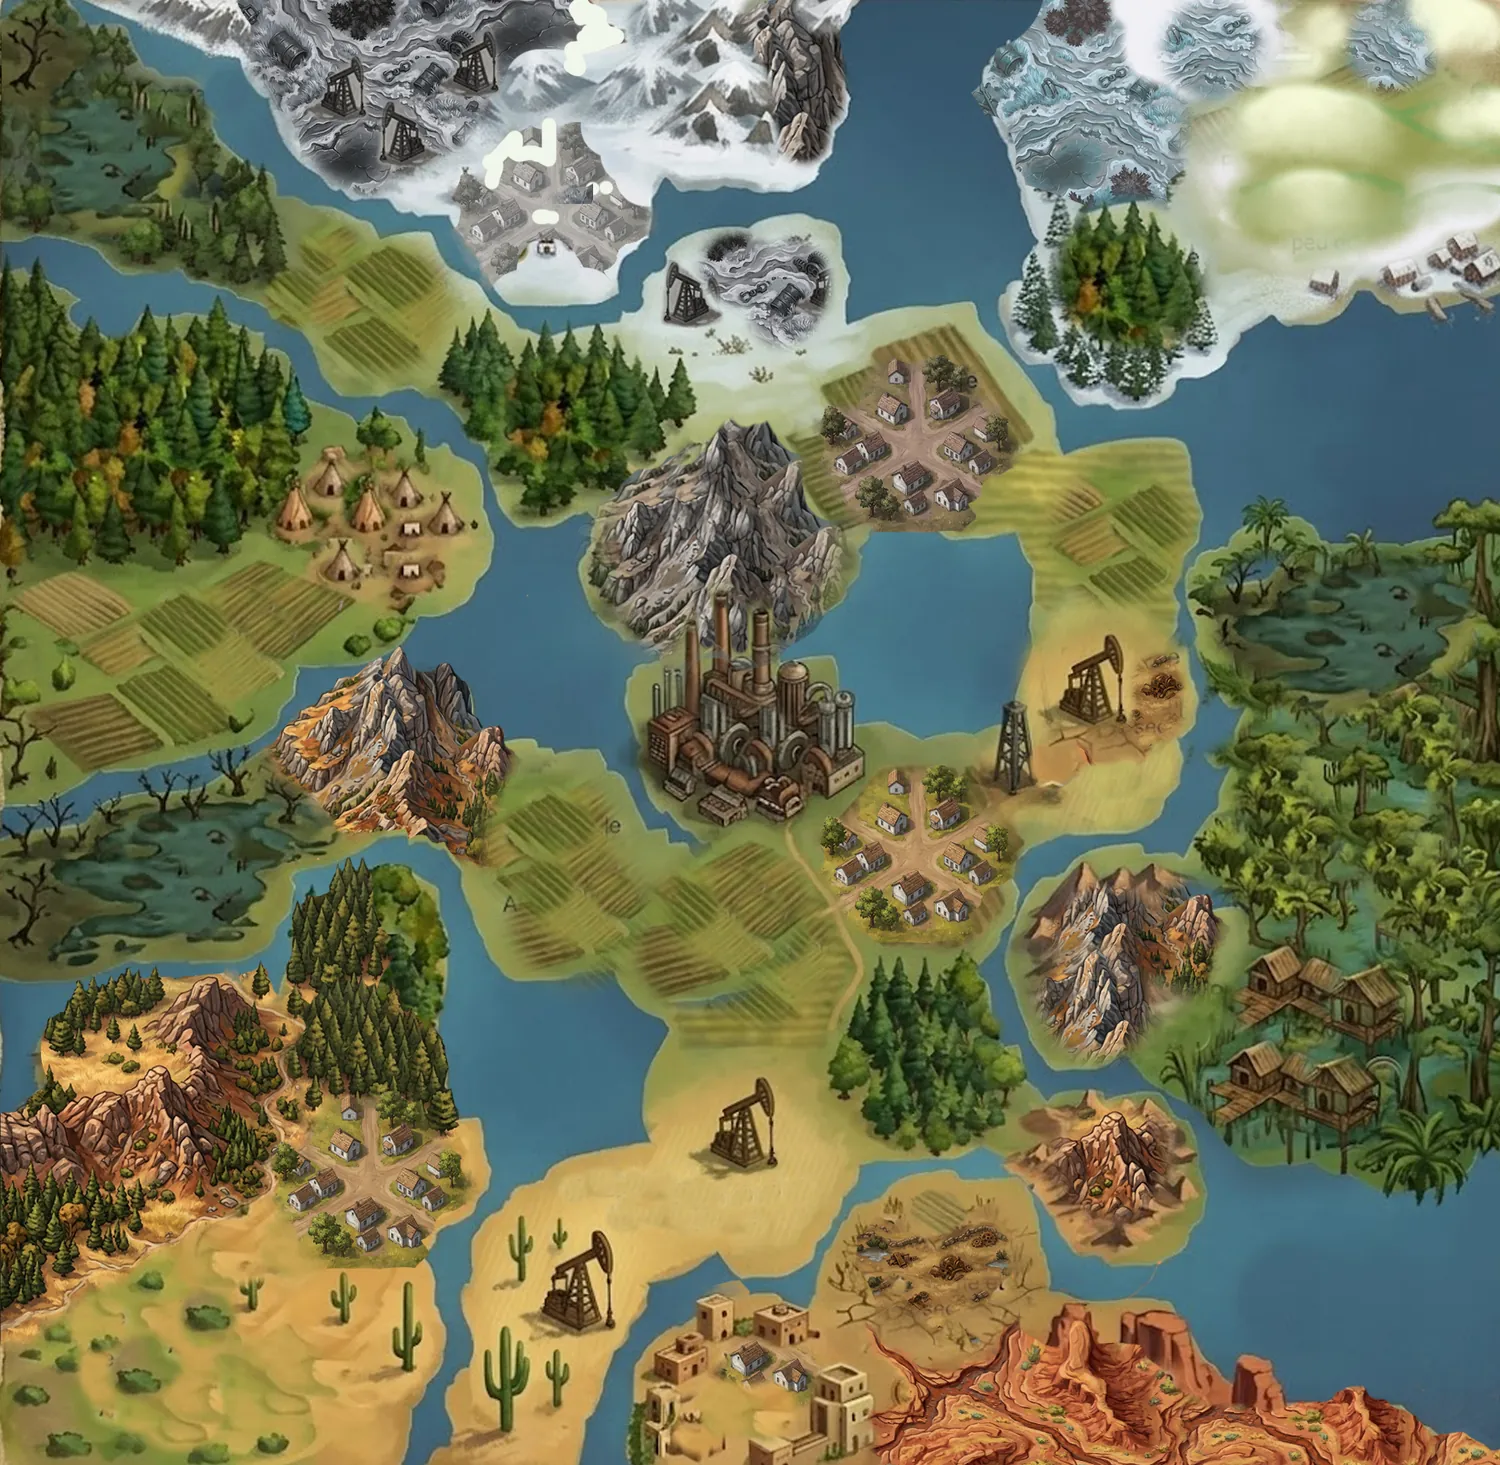
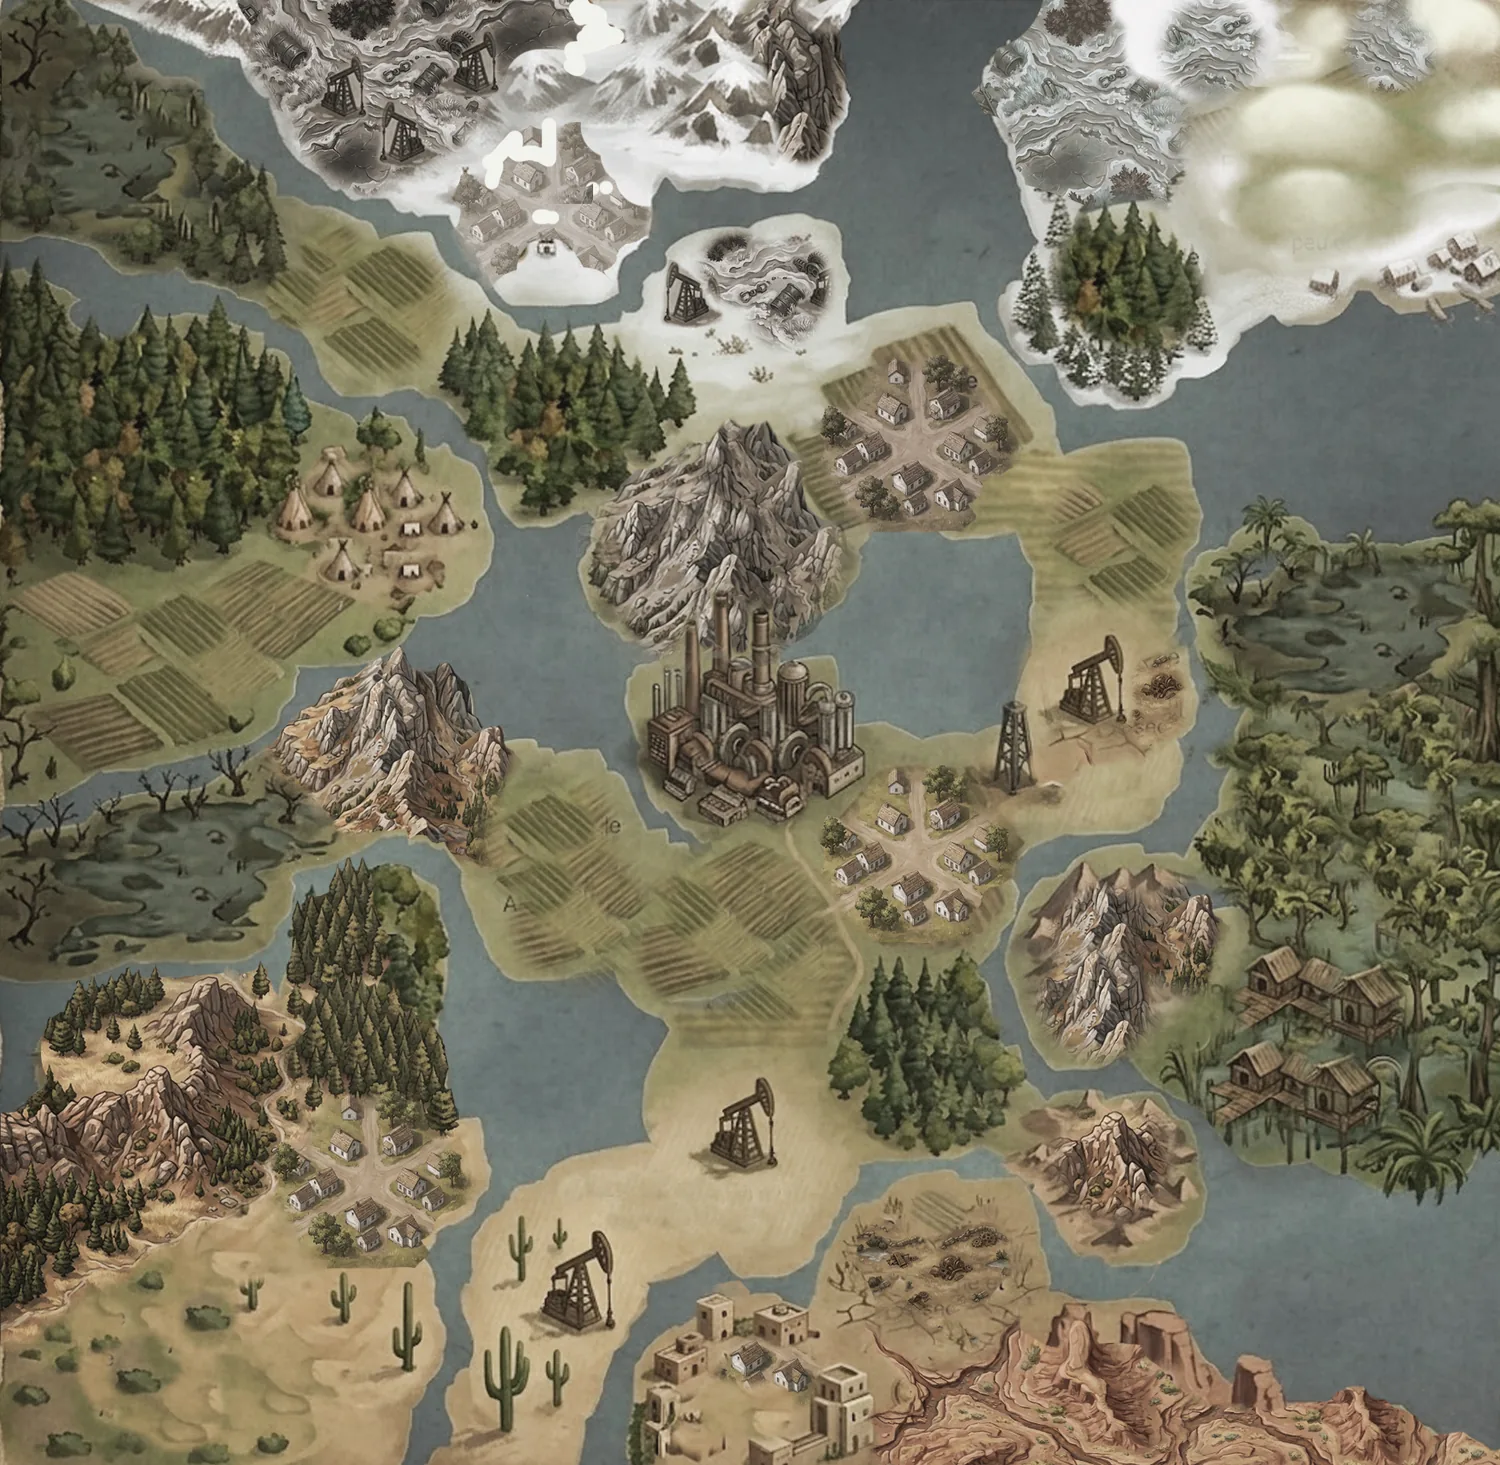
Refonte HUD map v2 : fond de plateau, pistes pop/puissance, tiroir de score, barre du haut
- Fond de plateau : « map advance » remplacé par « map v2 » (version sépia/parchemin)
- Piste popularité : position marquée par un cœur couleur faction avec le chiffre
  dessus, chiffres grisés sur les cases vides, lignes dorées aux paliers 6/7 et
  12/13, étoile fantôme (pointillés) sur l'échelon 18
- Barème de score : plus affiché en permanence — replié dans une bande à flèche
  qui ouvre un tiroir latéral détaillé (paliers affichés en plus grand)
- Piste puissance : l'éclair couleur faction marque la position, chiffres grisés,
  case 7 mise en avant (maximum engageable en combat), étoile fantôme sur 16
- Barre du haut : logo de faction agrandi (54px), icônes de ressources agrandies
  sans bloc, réorganisées Métal/Bois/Céréales/Pétrole ‖ Argent/Cartes munitions ;
  compteurs ouvriers et mechas retirés (lisibles sur la rangée d'objectifs)
- Bouton du son déplacé au-dessus de la piste de puissance pour ne plus la masquer

Claude-Session: https://claude.ai/code/session_01J9KHxZWt4YwQccm3tKDSbM

diff --git a/src/components/App.jsx b/src/components/App.jsx
@@ -35,6 +35,38 @@ import { FACTION_LOGOS, FACTION_ART } from '../assets/factions/index.js';
 import { TERRAIN_TEXTURES, TERRAIN_TILE } from '../assets/terrains/index.js';
 import { BOARD_IMAGE } from '../assets/map/index.js';
 
+// ═══ Marqueurs de piste (popularité / puissance) ═══
+// Cœur aux couleurs de la faction, portant la valeur courante de popularité.
+const HeartMarker=({color,value,size=26})=>(
+  <div style={{position:"relative",display:"flex",alignItems:"center",justifyContent:"center",filter:"drop-shadow(0 1px 3px rgba(0,0,0,0.75))",zIndex:2}}>
+    <svg width={size} height={size} viewBox="0 0 16 16">
+      <path d="M8 14 C8 14 2 10 2 6.5 C2 4 4 2 6 2 C7 2 7.6 2.5 8 3 C8.4 2.5 9 2 10 2 C12 2 14 4 14 6.5 C14 10 8 14 8 14Z" fill={color} stroke="rgba(255,255,255,0.85)" strokeWidth="0.9" strokeLinejoin="round"/>
+    </svg>
+    <span style={{position:"absolute",top:"44%",left:"50%",transform:"translate(-50%,-50%)",fontSize:Math.round(size*0.42),fontWeight:900,color:"#fff",fontFamily:"var(--font-mono)",textShadow:"0 1px 2px rgba(0,0,0,0.85)",lineHeight:1}}>{value}</span>
+  </div>
+);
+
+// Éclair aux couleurs de la faction, portant la valeur courante de puissance.
+const BoltMarker=({color,value,height=24})=>(
+  <div style={{display:"flex",alignItems:"center",gap:2,padding:"0 7px 0 4px",height,borderRadius:height/2,
+    background:color,border:"1px solid rgba(255,255,255,0.8)",boxShadow:"0 1px 4px rgba(0,0,0,0.7)"}}>
+    <svg width={Math.round(height*0.62)} height={Math.round(height*0.62)} viewBox="0 0 16 16">
+      <polygon points="9,1 4,9 7.5,9 7,15 12,7 8.5,7" fill="#fff" stroke="rgba(0,0,0,0.35)" strokeWidth="0.5"/>
+    </svg>
+    <span style={{fontSize:Math.round(height*0.52),fontWeight:900,color:"#fff",fontFamily:"var(--font-mono)",textShadow:"0 1px 2px rgba(0,0,0,0.7)",lineHeight:1}}>{value}</span>
+  </div>
+);
+
+// Étoile de fin de piste (pop 18 / puissance 16) : fantôme en pointillés tant
+// que l'étoile n'est pas obtenue, pleine et dorée une fois atteinte.
+const TrackStar=({size=13,earned=false})=>(
+  <svg width={size} height={size} viewBox="0 0 24 24" style={{flexShrink:0,display:"block"}}>
+    <path d="M12 2.5l2.83 5.9 6.47.84-4.75 4.48 1.21 6.4L12 17.02l-5.76 3.1 1.21-6.4-4.75-4.48 6.47-.84z"
+      fill={earned?"var(--gold)":"none"} stroke="var(--gold)" strokeWidth="1.8"
+      strokeDasharray={earned?undefined:"3 2.4"} opacity={earned?0.95:0.5} strokeLinejoin="round"/>
+  </svg>
+);
+
 export default function App(){
   const[phase,setPhase]=useState("setup");
   const[selFaction,setSelFaction]=useState(null);
@@ -73,6 +105,7 @@ export default function App(){
   const[hovHex,setHovHex]=useState(null);
   const[clickRipple,setClickRipple]=useState(null); // {hexId, key} for ripple animation
   const[showOpponents,setShowOpponents]=useState(false); // barre du haut dépliée : ressources + étoiles adverses
+  const[showScoring,setShowScoring]=useState(false); // tiroir latéral : barème de score de fin de partie
   const[floaters,setFloaters]=useState([]); // animations de gain : {id,icon,color,x,y,label}
   const[log,setLog]=useState([]);
   const[botRunning,setBotRunning]=useState(false);
@@ -2007,18 +2040,18 @@ export default function App(){
   const isMyTurn=currentP===0&&!botRunning;
   const selHexData=selHex!==null?hMap[selHex]:null;
 
-  // Ressources d'un joueur → pills (partagé barre du haut / panneau adversaires)
+  // Ressources d'un joueur → compteurs (partagé barre du haut / panneau adversaires).
+  // Ordre demandé : Métal / Bois / Céréales / Pétrole // Argent / Cartes munitions.
+  // (Ouvriers et mechas retirés : leurs valeurs sont lisibles sur la rangée d'objectifs.)
   const playerStats=(p)=>{
     const tot=(t)=>{let s=0;Object.values(p.resources).forEach(r=>{if(r[t])s+=r[t];});return s;};
     return[
-      {svgKey:"coins",val:p.coins,color:"var(--gold)",label:"$"},
-      {svgKey:"combatCards",val:p.combatCards,color:"#bbaacc",label:"CC"},
-      {svgKey:"metal",val:tot("metal"),color:"#99aabb",label:"Mét"},
+      {svgKey:"metal",val:tot("metal"),color:"#99aabb",label:"Métal"},
       {svgKey:"bois",val:tot("bois"),color:"#7aaa55",label:"Bois"},
-      {svgKey:"nourriture",val:tot("nourriture"),color:"#d4b050",label:"Nour"},
-      {svgKey:"petrole",val:tot("petrole"),color:"#8a90a0",label:"Pét"},
-      {svgKey:"worker",val:p.workers.length,color:"#c89966",label:"Ouv"},
-      {svgKey:"mech",val:p.mechs.length,color:"#99aabb",label:"Mech"},
+      {svgKey:"nourriture",val:tot("nourriture"),color:"#d4b050",label:"Céréales"},
+      {svgKey:"petrole",val:tot("petrole"),color:"#8a90a0",label:"Pétrole"},
+      {svgKey:"coins",val:p.coins,color:"var(--gold)",label:"Argent",sep:true},
+      {svgKey:"combatCards",val:p.combatCards,color:"#bbaacc",label:"Cartes munitions"},
     ];
   };
   // Vocabulaire couplé façon Scythe (en-tête de chaque cellule d'action)
@@ -2058,32 +2091,39 @@ export default function App(){
 
       {/* ═══ TOP RESOURCE BAR ═══ */}
       <div style={{gridColumn:"1/-1",display:"flex",alignItems:"center",padding:"6px 16px",gap:10,background:"linear-gradient(180deg,#282013,#1c150c)",borderBottom:"1px solid var(--panel-edge)",boxShadow:"inset 0 -1px 0 rgba(216,201,163,0.07)",flexShrink:0,height:"var(--top-h)",overflow:"hidden"}}>
-        {/* Faction badge */}
-        <div style={{display:"flex",alignItems:"center",gap:8,marginRight:4,flexShrink:0}}>
-          <div style={{width:36,height:36,borderRadius:"50%",background:myFaction.color+"22",border:`2px solid ${myFaction.color}`,display:"flex",alignItems:"center",justifyContent:"center",overflow:"hidden",flexShrink:0}}>
-            <img src={FACTION_LOGOS[me.faction]} alt="" style={{width:"82%",height:"82%",objectFit:"contain"}}/>
+        {/* Faction badge — logo agrandi */}
+        <div style={{display:"flex",alignItems:"center",gap:10,marginRight:4,flexShrink:0}}>
+          <div style={{width:54,height:54,borderRadius:"50%",background:myFaction.color+"22",border:`2px solid ${myFaction.color}`,display:"flex",alignItems:"center",justifyContent:"center",overflow:"hidden",flexShrink:0,boxShadow:`0 0 10px ${myFaction.color}33`}}>
+            <img src={FACTION_LOGOS[me.faction]} alt="" style={{width:"86%",height:"86%",objectFit:"contain"}}/>
           </div>
           <div style={{lineHeight:1.2}}>
-            <div style={{fontSize:16,fontWeight:700,color:myFaction.color,fontFamily:"var(--font-title)"}}>{myFaction.name}</div>
+            <div style={{fontSize:18,fontWeight:700,color:myFaction.color,fontFamily:"var(--font-title)"}}>{myFaction.name}</div>
             <div style={{fontSize:13,color:"var(--text-dim)",fontFamily:"var(--font-body)"}}>{myMat.name} · T{turn}</div>
           </div>
         </div>
         {botRunning&&<span style={{color:"var(--rust)",fontSize:14,animation:"pulse 1s infinite",marginRight:4,display:"flex",alignItems:"center",gap:3}}>{React.createElement(RESOURCE_ICONS.metal,{size:12,color:"var(--rust)"})} IA…</span>}
         {/* Divider */}
         <div style={{width:1,height:28,background:"var(--border-light)",flexShrink:0}}/>
-        {/* Resource counters — SVG icons */}
+        {/* Resource counters — grandes icônes SVG, sans bloc :
+            Métal / Bois / Céréales / Pétrole ‖ Argent / Cartes munitions */}
         {(()=>{
           const stats=playerStats(me);
-          return stats.map((s,i)=>{
+          return stats.map(s=>{
             const Icon=RESOURCE_ICONS[s.svgKey];
             const isCards=s.svgKey==="combatCards";
             return(
-            <div key={i} className="res-pill" title={isCards?"Cartes de combat — cliquer pour voir la main":s.label}
-              onClick={isCards?()=>setShowCards(v=>!v):undefined}
-              style={isCards?{cursor:"pointer",borderColor:showCards?"var(--gold-dim)":undefined}:undefined}>
-              <span className="res-icon" style={{display:"flex",alignItems:"center"}}>{Icon?<Icon size={19} color={s.color}/>:s.svgKey}</span>
-              <span className="res-val" style={{color:s.color}}>{s.val}</span>
-            </div>
+            <React.Fragment key={s.svgKey}>
+              {s.sep&&<div style={{width:1,height:34,background:"var(--border-light)",flexShrink:0,margin:"0 6px"}}/>}
+              <div title={isCards?"Cartes munitions — cliquer pour voir la main":s.label}
+                onClick={isCards?()=>setShowCards(v=>!v):undefined}
+                style={{display:"flex",alignItems:"center",gap:6,flexShrink:0,padding:"3px 5px",borderRadius:6,
+                  cursor:isCards?"pointer":"default",
+                  background:isCards&&showCards?"rgba(212,178,84,0.12)":"transparent",
+                  boxShadow:isCards&&showCards?"inset 0 0 0 1px var(--gold-dim)":"none"}}>
+                {Icon?<Icon size={28} color={s.color}/>:null}
+                <span style={{fontSize:24,fontWeight:700,fontFamily:"var(--font-mono)",color:s.color,lineHeight:1}}>{s.val}</span>
+              </div>
+            </React.Fragment>
           );});
         })()}
         {/* ── Rangée d'ÉTOILES À OBTENIR (icône grisée → étoile posée si atteint) ──
@@ -2165,65 +2205,96 @@ export default function App(){
         </div>
       )}
 
-      {/* ═══ LEFT: POPULARITY TRACK ═══ (la piste de puissance est désormais en
-            bas d'écran, cf. bande horizontale sous la grille principale) */}
-      <div style={{display:"flex",gap:4,background:"linear-gradient(180deg,#241d12,#171209 60%,#100c07)",borderRight:"1px solid var(--panel-edge)",boxShadow:"inset -1px 0 0 rgba(216,201,163,0.06)",padding:"4px 4px",overflow:"hidden"}}>
-        {/* Popularity track */}
-        <div style={{flex:1,display:"flex",flexDirection:"column",alignItems:"center"}}>
+      {/* ═══ LEFT: POPULARITY TRACK ═══ (la piste de puissance est en bas d'écran ;
+            le barème de score est replié dans un tiroir latéral — bande à flèche) */}
+      <div style={{display:"flex",gap:3,background:"linear-gradient(180deg,#241d12,#171209 60%,#100c07)",borderRight:"1px solid var(--panel-edge)",boxShadow:"inset -1px 0 0 rgba(216,201,163,0.06)",padding:"4px 3px 4px 4px",overflow:"hidden"}}>
+        {/* Popularity track — le cœur (couleur faction) marque la position, chiffre
+            dessus ; les cases vides gardent leur chiffre grisé ; les lignes dorées
+            marquent les paliers de score (6/7 et 12/13) ; étoile de fin à 18. */}
+        <div style={{flex:1,display:"flex",flexDirection:"column",alignItems:"center",minWidth:0}}>
           <div style={{fontSize:9,color:"var(--brass)",letterSpacing:1,textTransform:"uppercase",marginBottom:4,fontFamily:"var(--font-title)",fontWeight:700}}>Pop</div>
           <div style={{flex:1,display:"flex",flexDirection:"column-reverse",gap:1,width:"100%"}}>
             {Array.from({length:19},(_,i)=>i).map(v=>{
               const tier=v<=6?0:v<=12?1:2;
-              const tierColors=["var(--oxide)","var(--brass)","var(--gold)"];
+              const tierFills=["rgba(122,92,58,0.30)","rgba(196,160,96,0.26)","rgba(212,178,84,0.28)"];
+              const tierLines=["var(--oxide)","var(--brass)","var(--gold)"];
+              const isCur=v===me.pop;
               return(
-                <div key={v} style={{
-                  flex:1,minHeight:0,width:"100%",borderRadius:2,
-                  background:v<=me.pop?`linear-gradient(90deg,${tierColors[tier]}cc,${tierColors[tier]})`:"rgba(255,255,255,0.03)",
-                  border:v<=me.pop?`1px solid ${tierColors[tier]}`:"1px solid rgba(255,255,255,0.04)",
+                <div key={v} title={v===18?"18 — étoile Popularité max":`Popularité ${v}`} style={{
+                  flex:1,minHeight:0,width:"100%",borderRadius:2,position:"relative",
+                  background:v<=me.pop?tierFills[tier]:"rgba(255,255,255,0.02)",
+                  border:"1px solid rgba(255,255,255,0.04)",
+                  // palier de score : ligne marquée entre 6/7 et 12/13
+                  borderBottom:v===7||v===13?`2px solid ${tierLines[tier]}`:"1px solid rgba(255,255,255,0.04)",
                   display:"flex",alignItems:"center",justifyContent:"center",
-                  fontSize:9,fontWeight:v===me.pop?900:400,
-                  color:v<=me.pop?"#fff":"#2a2010",
-                  boxShadow:v===me.pop?"0 0 6px rgba(200,160,60,0.5)":"none",
-                  borderLeft:v===7||v===13?`2px solid ${tierColors[tier]}88`:"none",
-                }}>{v%2===0?v:""}</div>
+                }}>
+                  {v===18&&<span style={{position:"absolute",left:3,top:"50%",transform:"translateY(-50%)",display:"flex"}}><TrackStar size={12} earned={me.pop>=18}/></span>}
+                  {isCur
+                    ?<HeartMarker color={myFaction.color} value={v}/>
+                    :<span style={{fontSize:10,fontWeight:600,fontFamily:"var(--font-mono)",color:"var(--text-ghost)"}}>{v}</span>}
+                </div>
               );
             })}
           </div>
           <div style={{fontSize:18,fontWeight:700,color:"var(--brass)",marginTop:4,fontFamily:"var(--font-title)"}}>{me.pop}</div>
         </div>
-        {/* ── BARÈME DE SCORE par palier de popularité (aide-mémoire fidèle à
-              Scythe) : ⭐ étoiles / 🗺 territoires / 📦 paires de ressources.
-              Aligné sur les 3 bandes de la piste (le palier actif est surligné). ── */}
-        {(()=>{
-          const curTier=me.pop<=6?0:me.pop<=12?1:2;
-          const bands=[
-            {t:2,range:"13-18",star:5,ter:4,res:3},
-            {t:1,range:"7-12",star:4,ter:3,res:2},
-            {t:0,range:"0-6",star:3,ter:2,res:1},
-          ];
-          return(
-            <div style={{width:42,display:"flex",flexDirection:"column",alignItems:"stretch",paddingTop:14,paddingBottom:24}}>
-              <div style={{fontSize:8,color:"var(--gold-dim)",textAlign:"center",letterSpacing:0.5,marginBottom:4,fontFamily:"var(--font-title)",fontWeight:700}}>$/pt</div>
-              <div style={{flex:1,display:"grid",gridTemplateRows:"1fr 1fr 1fr",gap:3}}>
-                {bands.map(b=>{const active=b.t===curTier;return(
-                  <div key={b.t} title={`Popularité ${b.range} : chaque ⭐ vaut ${b.star}$, chaque territoire ${b.ter}$, chaque paire de ressources ${b.res}$`}
-                    style={{flex:1,display:"flex",flexDirection:"column",justifyContent:"center",gap:1,borderRadius:4,padding:"2px 3px",
-                      background:active?"rgba(212,178,84,0.16)":"rgba(255,255,255,0.02)",
-                      border:active?"1px solid var(--gold)":"1px solid var(--border)"}}>
-                    <div style={{fontSize:8,color:active?"var(--gold)":"var(--text-muted)",textAlign:"center",fontFamily:"var(--font-mono)",fontWeight:700}}>{b.range}</div>
-                    <div style={{display:"flex",justifyContent:"space-around",fontSize:10,fontWeight:800,fontFamily:"var(--font-mono)",color:active?"#e8dcc4":"var(--text-dim)"}}>
-                      <span title="par étoile" style={{color:active?"var(--gold)":"var(--gold-dim)"}}>⭐{b.star}</span>
-                    </div>
-                    <div style={{display:"flex",justifyContent:"space-around",fontSize:10,fontWeight:800,fontFamily:"var(--font-mono)",color:active?"#e8dcc4":"var(--text-dim)"}}>
-                      <span title="par territoire">🗺{b.ter}</span><span title="par paire de ressources">📦{b.res}</span>
-                    </div>
-                  </div>
-                );})}
-              </div>
-            </div>
-          );
-        })()}
+        {/* ── Bande-tiroir du BARÈME DE SCORE : repliée en permanence, une petite
+              flèche l'ouvre en panneau latéral détaillé (affiché plus grand). ── */}
+        <button onClick={()=>setShowScoring(v=>!v)} title="Barème de score de fin de partie"
+          style={{width:17,flexShrink:0,borderRadius:5,border:"1px solid var(--gold-dim)",
+            background:showScoring?"linear-gradient(90deg,rgba(212,178,84,0.22),rgba(212,178,84,0.10))":"linear-gradient(90deg,rgba(212,178,84,0.10),rgba(212,178,84,0.03))",
+            color:"var(--gold)",display:"flex",flexDirection:"column",alignItems:"center",justifyContent:"center",gap:8,cursor:"pointer",padding:"6px 0"}}>
+          <span style={{fontSize:9,transition:"transform .2s",transform:showScoring?"rotate(180deg)":"none"}}>▶</span>
+          <span style={{writingMode:"vertical-rl",fontSize:9,letterSpacing:2,textTransform:"uppercase",fontFamily:"var(--font-title)",fontWeight:700}}>Score</span>
+          <span style={{fontSize:9,transition:"transform .2s",transform:showScoring?"rotate(180deg)":"none"}}>▶</span>
+        </button>
       </div>
+
+      {/* ═══ TIROIR LATÉRAL : BARÈME DE SCORE (⭐ étoiles / 🗺 territoires /
+            📦 paires de ressources, par palier de popularité) ═══ */}
+      {showScoring&&(()=>{
+        const curTier=me.pop<=6?0:me.pop<=12?1:2;
+        const bands=[
+          {t:2,range:"13-18",star:5,ter:4,res:3},
+          {t:1,range:"7-12",star:4,ter:3,res:2},
+          {t:0,range:"0-6",star:3,ter:2,res:1},
+        ];
+        return(
+          <div style={{position:"fixed",top:"calc(var(--top-h) + 8px)",left:"calc(var(--left-w) + 6px)",zIndex:45,width:330,maxHeight:"calc(100vh - var(--top-h) - 56px)",overflowY:"auto",
+            background:"linear-gradient(180deg,#211a10,#14100a)",border:"1px solid var(--gold-dim)",borderRadius:12,boxShadow:"0 10px 40px rgba(0,0,0,0.7)",animation:"slideUp 0.2s ease"}}>
+            <div style={{display:"flex",alignItems:"center",gap:10,padding:"14px 16px",borderBottom:"1px solid var(--border)"}}>
+              <span style={{fontSize:22}}>💰</span>
+              <div style={{flex:1,minWidth:0}}>
+                <div style={{fontFamily:"var(--font-title)",fontSize:18,fontWeight:800,color:"var(--gold)"}}>Barème de fin de partie</div>
+                <div style={{fontSize:13,color:"var(--text-dim)"}}>Votre palier suit votre popularité — ♥ {me.pop} actuellement.</div>
+              </div>
+              <button onClick={()=>setShowScoring(false)} style={{width:26,height:26,borderRadius:6,background:"rgba(0,0,0,0.4)",border:"1px solid var(--border)",color:"var(--text-dim)",fontSize:16,cursor:"pointer",flexShrink:0}}>✕</button>
+            </div>
+            <div style={{padding:"12px 14px",display:"flex",flexDirection:"column",gap:8}}>
+              {bands.map(b=>{const active=b.t===curTier;return(
+                <div key={b.t} style={{borderRadius:10,padding:"10px 12px",
+                  background:active?"rgba(212,178,84,0.14)":"rgba(255,255,255,0.02)",
+                  border:active?"1px solid var(--gold)":"1px solid var(--border)"}}>
+                  <div style={{display:"flex",alignItems:"baseline",gap:8,marginBottom:6}}>
+                    <span style={{fontSize:19,fontWeight:900,fontFamily:"var(--font-mono)",color:active?"var(--gold)":"var(--text-dim)"}}>♥ {b.range}</span>
+                    <span style={{fontSize:12,color:active?"var(--gold)":"var(--text-muted)",textTransform:"uppercase",letterSpacing:1,fontFamily:"var(--font-title)",fontWeight:700}}>{active?"— votre palier":"de popularité"}</span>
+                  </div>
+                  <div style={{display:"grid",gridTemplateColumns:"1fr 1fr 1fr",gap:6,textAlign:"center"}}>
+                    {[["⭐",b.star,"par étoile"],["🗺",b.ter,"par territoire"],["📦",b.res,"par paire de ressources"]].map(([ic,val,lab])=>(
+                      <div key={lab} style={{borderRadius:8,padding:"8px 4px",background:"rgba(0,0,0,0.3)",border:"1px solid var(--border)"}}>
+                        <div style={{fontSize:17}}>{ic}</div>
+                        <div style={{fontSize:21,fontWeight:900,fontFamily:"var(--font-mono)",color:active?"#e8dcc4":"var(--text-dim)"}}>{val}$</div>
+                        <div style={{fontSize:11,color:"var(--text-muted)",lineHeight:1.25}}>{lab}</div>
+                      </div>
+                    ))}
+                  </div>
+                </div>
+              );})}
+              <div style={{fontSize:12.5,color:"var(--text-muted)",lineHeight:1.5}}>S'ajoute à l'argent en caisse. Les paliers sont marqués par les lignes dorées sur la piste de popularité.</div>
+            </div>
+          </div>
+        );
+      })()}
 
       {/* ═══ CENTER: MAP + OVERLAYS ═══ */}
       <div style={{position:"relative",overflow:"hidden",background:"radial-gradient(ellipse at 50% 45%,#16140e,var(--bg-map))",cursor:isPanning?"grabbing":"grab",touchAction:"none"}}>
@@ -3276,27 +3347,31 @@ export default function App(){
         </div>
       </div>
 
-      {/* ═══ BOTTOM: POWER TRACK (horizontale, pleine largeur) — bascule demandée
-            en bas d'écran ; un point de couleur par adversaire marque sa position
-            actuelle sur la piste, en plus de la mienne (remplissage rouge). ═══ */}
-      <div style={{gridColumn:"1/-1",display:"flex",alignItems:"center",gap:10,padding:"5px 16px",height:32,background:"linear-gradient(0deg,#241d12,#171209)",borderTop:"1px solid var(--panel-edge)",boxShadow:"inset 0 1px 0 rgba(216,201,163,0.06)",flexShrink:0,overflow:"hidden"}}>
+      {/* ═══ BOTTOM: POWER TRACK (horizontale, pleine largeur) — l'éclair (couleur
+            faction) marque la position, chiffre dessus ; chiffres grisés sur les
+            cases vides ; palier 7 = maximum engageable dans un combat ; étoile de
+            fin de piste à 16. Un point de couleur par adversaire marque sa position. ═══ */}
+      <div style={{gridColumn:"1/-1",display:"flex",alignItems:"center",gap:10,padding:"5px 16px",height:36,background:"linear-gradient(0deg,#241d12,#171209)",borderTop:"1px solid var(--panel-edge)",boxShadow:"inset 0 1px 0 rgba(216,201,163,0.06)",flexShrink:0}}>
         <div style={{fontSize:10,color:"var(--rust)",letterSpacing:1,textTransform:"uppercase",fontFamily:"var(--font-title)",fontWeight:700,flexShrink:0}}>Puissance</div>
-        <div style={{flex:1,display:"flex",gap:2,height:20,position:"relative"}}>
+        <div style={{flex:1,display:"flex",gap:2,height:22,position:"relative"}}>
           {Array.from({length:17},(_,v)=>v).map(v=>{
             const opponentsHere=players.slice(1).filter(op=>op.power===v);
+            const isCur=v===me.power;
+            const isCombatCap=v===7; // palier : maximum de puissance engageable dans un combat
             return(
-              <div key={v} style={{
+              <div key={v} title={isCombatCap?"7 — maximum de puissance engageable dans un combat":v===16?"16 — étoile Puissance max":`Puissance ${v}`} style={{
                 flex:1,minWidth:0,borderRadius:2,position:"relative",
-                background:v<=me.power?"linear-gradient(180deg,#bb3838,#8b2020)":"rgba(255,255,255,0.03)",
-                border:v<=me.power?"1px solid #dd4444":"1px solid rgba(255,255,255,0.04)",
-                display:"flex",alignItems:"center",justifyContent:"center",
-                fontSize:9,fontWeight:v===me.power?900:400,
-                color:v<=me.power?"#fff":"#3a2a2a",
-                boxShadow:v===me.power?"0 0 6px rgba(220,50,30,0.5)":"none",
+                background:v<=me.power?"rgba(187,56,56,0.16)":"rgba(255,255,255,0.03)",
+                border:isCombatCap?"1px solid var(--rust)":"1px solid rgba(255,255,255,0.05)",
+                borderRight:isCombatCap?"2px solid var(--rust)":undefined,
+                display:"flex",alignItems:"center",justifyContent:"center",gap:3,
               }}>
-                {v%2===0?v:""}
+                {!isCur&&<span style={{fontSize:10,fontWeight:isCombatCap?800:600,fontFamily:"var(--font-mono)",color:isCombatCap?"var(--rust)":"var(--text-ghost)"}}>{v}</span>}
+                {isCombatCap&&!isCur&&<span style={{fontSize:9,opacity:0.75}}>⚔</span>}
+                {v===16&&<span style={{position:"absolute",right:4,top:"50%",transform:"translateY(-50%)",display:"flex"}}><TrackStar size={12} earned={me.power>=16}/></span>}
+                {isCur&&<div style={{position:"absolute",left:"50%",top:"50%",transform:"translate(-50%,-50%)",zIndex:2}}><BoltMarker color={myFaction.color} value={v}/></div>}
                 {opponentsHere.length>0&&(
-                  <div style={{position:"absolute",top:-9,left:"50%",transform:"translateX(-50%)",display:"flex",gap:2}}>
+                  <div style={{position:"absolute",top:-8,left:"50%",transform:"translateX(-50%)",display:"flex",gap:2,zIndex:3}}>
                     {opponentsHere.map(op=>(
                       <div key={op.faction} title={`${FACTIONS[op.faction].name} : ${op.power}⚡`} style={{width:7,height:7,borderRadius:"50%",background:FACTIONS[op.faction].color,border:"1px solid rgba(6,5,3,0.9)"}}/>
                     ))}

diff --git a/src/styles/variables.css b/src/styles/variables.css
@@ -87,9 +87,11 @@
   --surface-3: #2A2418;
 
   /* Sizing */
-  /* Barres élargies pour absorber la typo agrandie sans rogner le texte */
-  --top-h: 62px;
-  --left-w: 118px;
+  /* Barres élargies pour absorber la typo agrandie sans rogner le texte ;
+     barre du haut rehaussée pour le grand logo de faction + grandes icônes */
+  --top-h: 72px;
+  /* Colonne gauche resserrée : le barème de score est replié dans un tiroir */
+  --left-w: 96px;
   /* Panneau droit adaptatif : 340px minimum, s'élargit sur grands écrans */
   --right-w: clamp(340px, 25vw, 440px);
   --btn-min: 44px;

diff --git a/src/components/AmbientSound.jsx b/src/components/AmbientSound.jsx
@@ -112,7 +112,9 @@ export default function AmbientSound() {
 
   return (
     <div style={{
-      position: 'fixed', bottom: 8, right: 328, zIndex: 100,
+      /* au-dessus de la piste de puissance (36px) et à gauche du panneau droit
+         pour ne masquer ni la piste ni l'en-tête du journal */
+      position: 'fixed', bottom: 42, right: 'calc(var(--right-w) + 8px)', zIndex: 100,
       display: 'flex', alignItems: 'center', gap: 6,
       background: 'rgba(10,9,6,0.8)', borderRadius: 4,
       padding: '4px 8px', border: '1px solid rgba(42,36,24,0.5)',

diff --git a/src/assets/map/index.js b/src/assets/map/index.js
@@ -1,4 +1,4 @@
-// Fond de plateau peint (carte classique uniquement) — affiché en arrière-plan,
+// Fond de plateau peint « map v2 » (carte classique uniquement) — affiché en arrière-plan,
 // la grille d'hexagones passant en mode fil de fer (contour seul) par-dessus.
 // En carte procédurale, on garde les textures par-hex (le terrain change).
 import board from './board.webp';